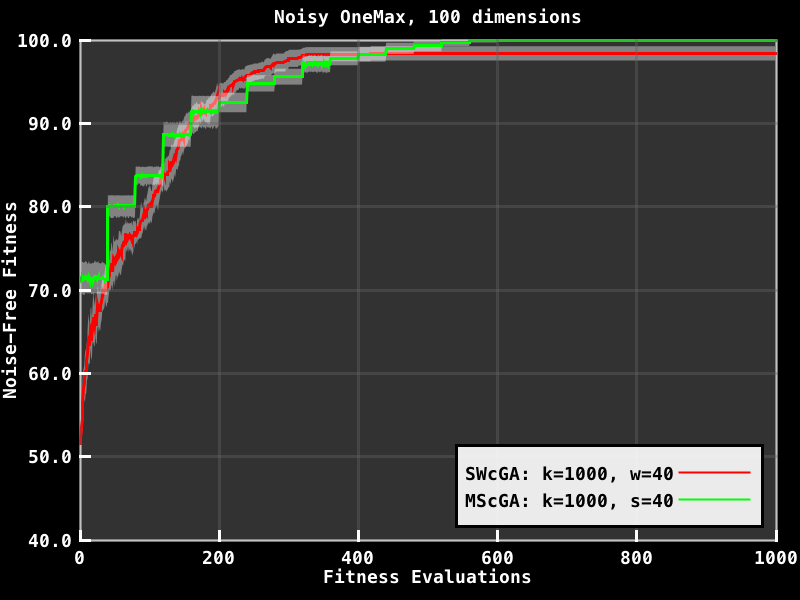
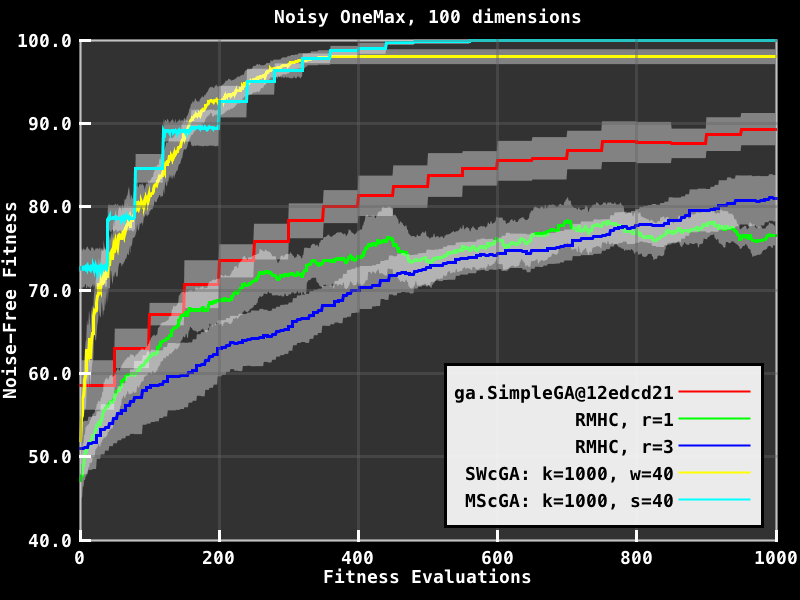
SimpleGA working and results plotted

Changed region(s): [[0.0938, 0.06, 0.9688, 0.81], [0.5312, 0.6, 0.9688, 0.87], [0.8438, 0.78, 0.9375, 0.84]]

diff --git a/src/ga/SimpleGA.java b/src/ga/SimpleGA.java
@@ -80,15 +80,23 @@ public class SimpleGA implements EvoAlg {
         mutator = new Mutator(evaluator.searchSpace());
 
         initPop();
-        System.out.println(pop.size() + " : " + popSize);
+        // System.out.println(pop.size() + " : " + popSize);
 
         while (evaluator.nEvals() < nEvals) {
+
+            int prevEvals = evaluator.nEvals();
 
             // evaluate them
             evalPop();
 
+
             // breed them
             pop = breed();
+
+            int diffEvals = evaluator.nEvals() - prevEvals;
+            for (int i=0; i<diffEvals; i++) {
+                evaluator.logger().logBestYest(pop.get(0).p);
+            }
 
         }
         // a final evaluation
@@ -143,12 +151,13 @@ public class SimpleGA implements EvoAlg {
         }
         // and sort them
         Collections.sort(pop);
-        System.out.println("Pop size: " + pop.size());
+
+        // System.out.println("Pop size: " + pop.size());
         int i = 0;
-        for (ScoredVec sv : pop) {
-            System.out.println(i++ + " : " + Arrays.toString(sv.p) + " : " + sv.score);
-        }
-        System.out.println();
+//        for (ScoredVec sv : pop) {
+//            System.out.println(i++ + " : " + Arrays.toString(sv.p) + " : " + sv.score);
+//        }
+        // System.out.println();
     }
 
     double fitness(int[] sol) {

diff --git a/src/evodef/TestEAGraphRunTrials.java b/src/evodef/TestEAGraphRunTrials.java
@@ -42,7 +42,7 @@ public class TestEAGraphRunTrials {
         SimpleRMHC rmhc1 = new SimpleRMHC(1);
         SimpleRMHC rmhc5 = new SimpleRMHC(3);
 
-        SimpleGA sga = new SimpleGA().setPopulationSize(20);
+        SimpleGA sga = new SimpleGA().setPopulationSize(50).setCrossoverRate(0.8);
 
         int windowLength = 40;
         CompactSlidingGA slidingGA = new CompactSlidingGA().setHistoryLength(windowLength);
@@ -60,7 +60,7 @@ public class TestEAGraphRunTrials {
         // add them to the test list
         ArrayList<EvoAlg> evos = new ArrayList<>();
         // evos.add(new SlidingMeanEDA().setHistoryLength(30));
-        // evos.add(sga);
+        evos.add(sga);
         evos.add(rmhc1);
         evos.add(rmhc5);
         evos.add(slidingGA);
